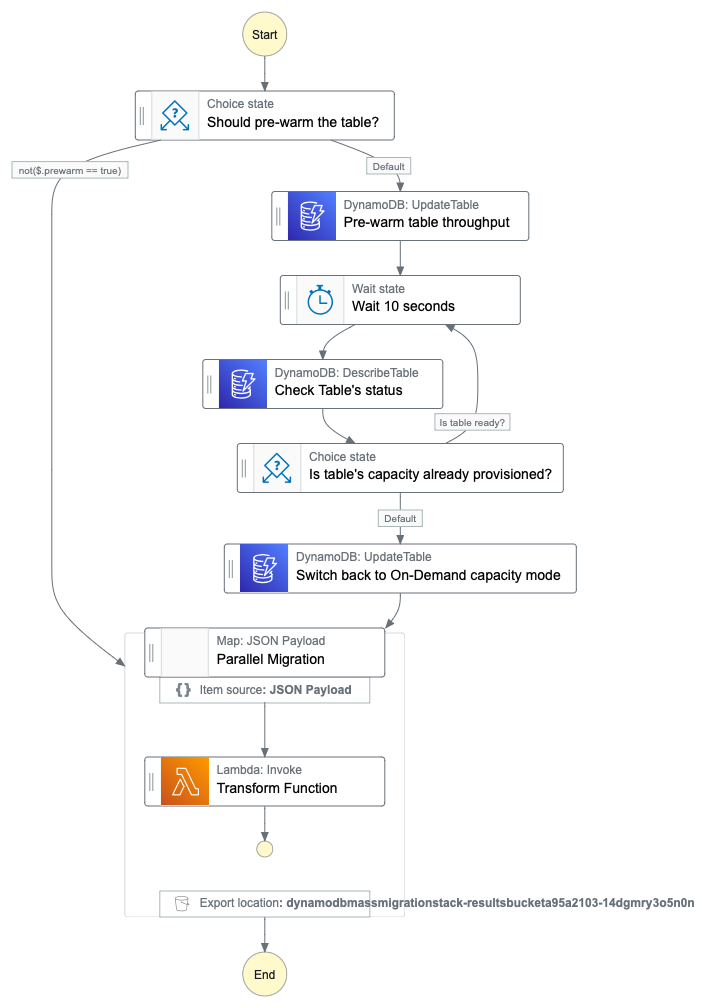
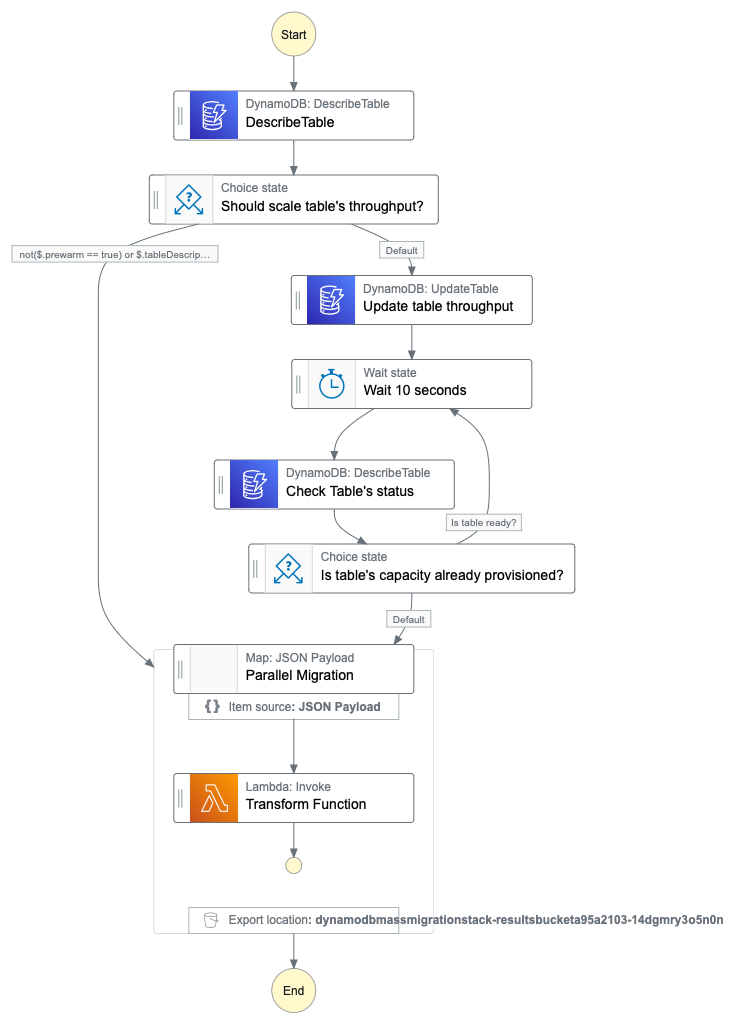
feat: restrict table prewarming to provisioned tables

diff --git a/lib/asl.ts b/lib/asl.ts
@@ -1,23 +1,41 @@
 export const asl = (lambdaArn: string, resultsBucket: string) => ({
   Comment: "Parallel migration state machine",
-  StartAt: "Should pre-warm the table?",
+  StartAt: "DescribeTable",
   States: {
-    "Should pre-warm the table?": {
+    DescribeTable: {
+      Type: "Task",
+      Next: "Should scale table's throughput?",
+      Parameters: {
+        "TableName.$": "$.map[0].tableName",
+      },
+      Resource: "arn:aws:states:::aws-sdk:dynamodb:describeTable",
+      ResultPath: "$.tableDescription",
+    },
+    "Should scale table's throughput?": {
       Type: "Choice",
       Choices: [
         {
-          Not: {
-            Variable: "$.prewarm",
-            BooleanEquals: true,
-          },
+          Or: [
+            {
+              Not: {
+                Variable: "$.prewarm",
+                BooleanEquals: true,
+              },
+            },
+            {
+              Variable:
+                "$.tableDescription.Table.BillingModeSummary.BillingMode",
+              StringEquals: "PAY_PER_REQUEST",
+            },
+          ],
           Next: "Parallel Migration",
         },
       ],
-      Default: "Pre-warm table throughput",
+      Default: "Update table throughput",
       Comment:
         "On-demand tables can process 2,000 write request units or 6,000 read request units immediately. If more is needed, you can pre-warm your table",
     },
-    "Pre-warm table throughput": {
+    "Update table throughput": {
       Type: "Task",
       Next: "Wait 10 seconds",
       Parameters: {
@@ -58,16 +76,7 @@ export const asl = (lambdaArn: string, resultsBucket: string) => ({
           Comment: "Is table ready?",
         },
       ],
-      Default: "Switch back to On-Demand capacity mode",
-    },
-    "Switch back to On-Demand capacity mode": {
-      Type: "Task",
-      Next: "Parallel Migration",
-      Parameters: {
-        "TableName.$": "$.map[0].tableName",
-        BillingMode: "PAY_PER_REQUEST",
-      },
-      Resource: "arn:aws:states:::aws-sdk:dynamodb:updateTable",
+      Default: "Parallel Migration",
     },
     "Parallel Migration": {
       Type: "Map",

diff --git a/bin/run.ts b/bin/run.ts
@@ -1,10 +1,15 @@
 import { StepFunctions } from "aws-sdk";
 
+interface MapItem {
+  segment: string;
+  totalSegments: number;
+  tableName: string;
+}
 interface Payload {
-  map: any[];
-  prewarm?: boolean;
-  prewarmWCU?: string;
-  prewarmRCU?: string;
+  map: MapItem[];
+  prewarm: boolean;
+  prewarmWCU?: number;
+  prewarmRCU?: number;
 }
 
 const stateMachineArn = process.env.SFN_ARN;
@@ -21,7 +26,7 @@ const region = stateMachineArn.split(":")[3];
 
 const sfn = new StepFunctions({ region });
 
-const map = new Array(totalSegments).fill(1).map((_, i) => ({
+const map: MapItem[] = new Array(totalSegments).fill(1).map((_, i) => ({
   segment: i.toString(),
   totalSegments,
   tableName,
@@ -29,12 +34,13 @@ const map = new Array(totalSegments).fill(1).map((_, i) => ({
 
 const payload: Payload = {
   map,
+  prewarm: false,
 };
 
 if (process.env.PREWARM === "true") {
   payload.prewarm = true;
-  payload.prewarmWCU = process.env.PREWARM_WCU ?? "4000";
-  payload.prewarmRCU = process.env.PREWARM_RCU ?? "12000";
+  payload.prewarmWCU = parseInt(process.env.PREWARM_WCU ?? "4000", 10);
+  payload.prewarmRCU = parseInt(process.env.PREWARM_RCU ?? "12000", 10);
 
   console.log(
     `Pre-warming table with ${payload.prewarmWCU} WCU and ${payload.prewarmRCU} RCU`

diff --git a/README.md b/README.md
@@ -43,7 +43,7 @@ This will start the state machine with following payload:
 
 ```json
 {
-  "prewarm": true,
+  "prewarm": false,
   "map": [
     {
       "tableName": "<name-of-the-table-to-migrate>",
@@ -56,13 +56,15 @@ This will start the state machine with following payload:
 
 ### Table pre-warming
 
-> _Important:_ This project assumes that your table is running in On-Demand capacity mode.
+DynamoDB tables with On-demand mode can handle up to 2,000 WCU and 6,000 RCU, or spikes up to 200% of its previous high-water mark.
 
-On-demand capacity tables can handle up to 2,000 and 6,000 RCU by default. If your migration is expected to consume more, this project has a feature to [pre-warm the table before starting the migration](https://aws.amazon.com/blogs/database/running-spiky-workloads-and-optimizing-costs-by-more-than-90-using-amazon-dynamodb-on-demand-capacity-mode/).
+If table is in provisioned mode and your migration is expected to consume more, this project has a feature to [pre-warm the table before starting the migration](https://aws.amazon.com/blogs/database/running-spiky-workloads-and-optimizing-costs-by-more-than-90-using-amazon-dynamodb-on-demand-capacity-mode/).
 
-By providing `PREWARM=true`, it will change your table's capacity to mode to `PROVISIONED` with RCU set to 4,000 (customizable via `PREWARM_WCU` env var) and 12,000 RCU (customizable via `PREWARM_RCU` env var), and then change it back to `ON_DEMAND`. This trick will make your table "warm" and able to handle more load. More on that in the [AWS docs](https://docs.aws.amazon.com/amazondynamodb/latest/developerguide/HowItWorks.ReadWriteCapacityMode.html#HowItWorks.InitialThroughput).
+By providing `PREWARM=true`, it will set your table's RCU to 4,000 (customizable via `PREWARM_WCU` env var) and RCU to 12,000 (customizable via `PREWARM_RCU` env var).
 
 If you don't need to pre-warm the table, you can pass `PREWARM=false` to the `run.ts` script or simply skip this setting.
+
+**Todo:** add a feature to automatically set the table back to its original capacity after the migration.
 
 ## Useful links:
 
